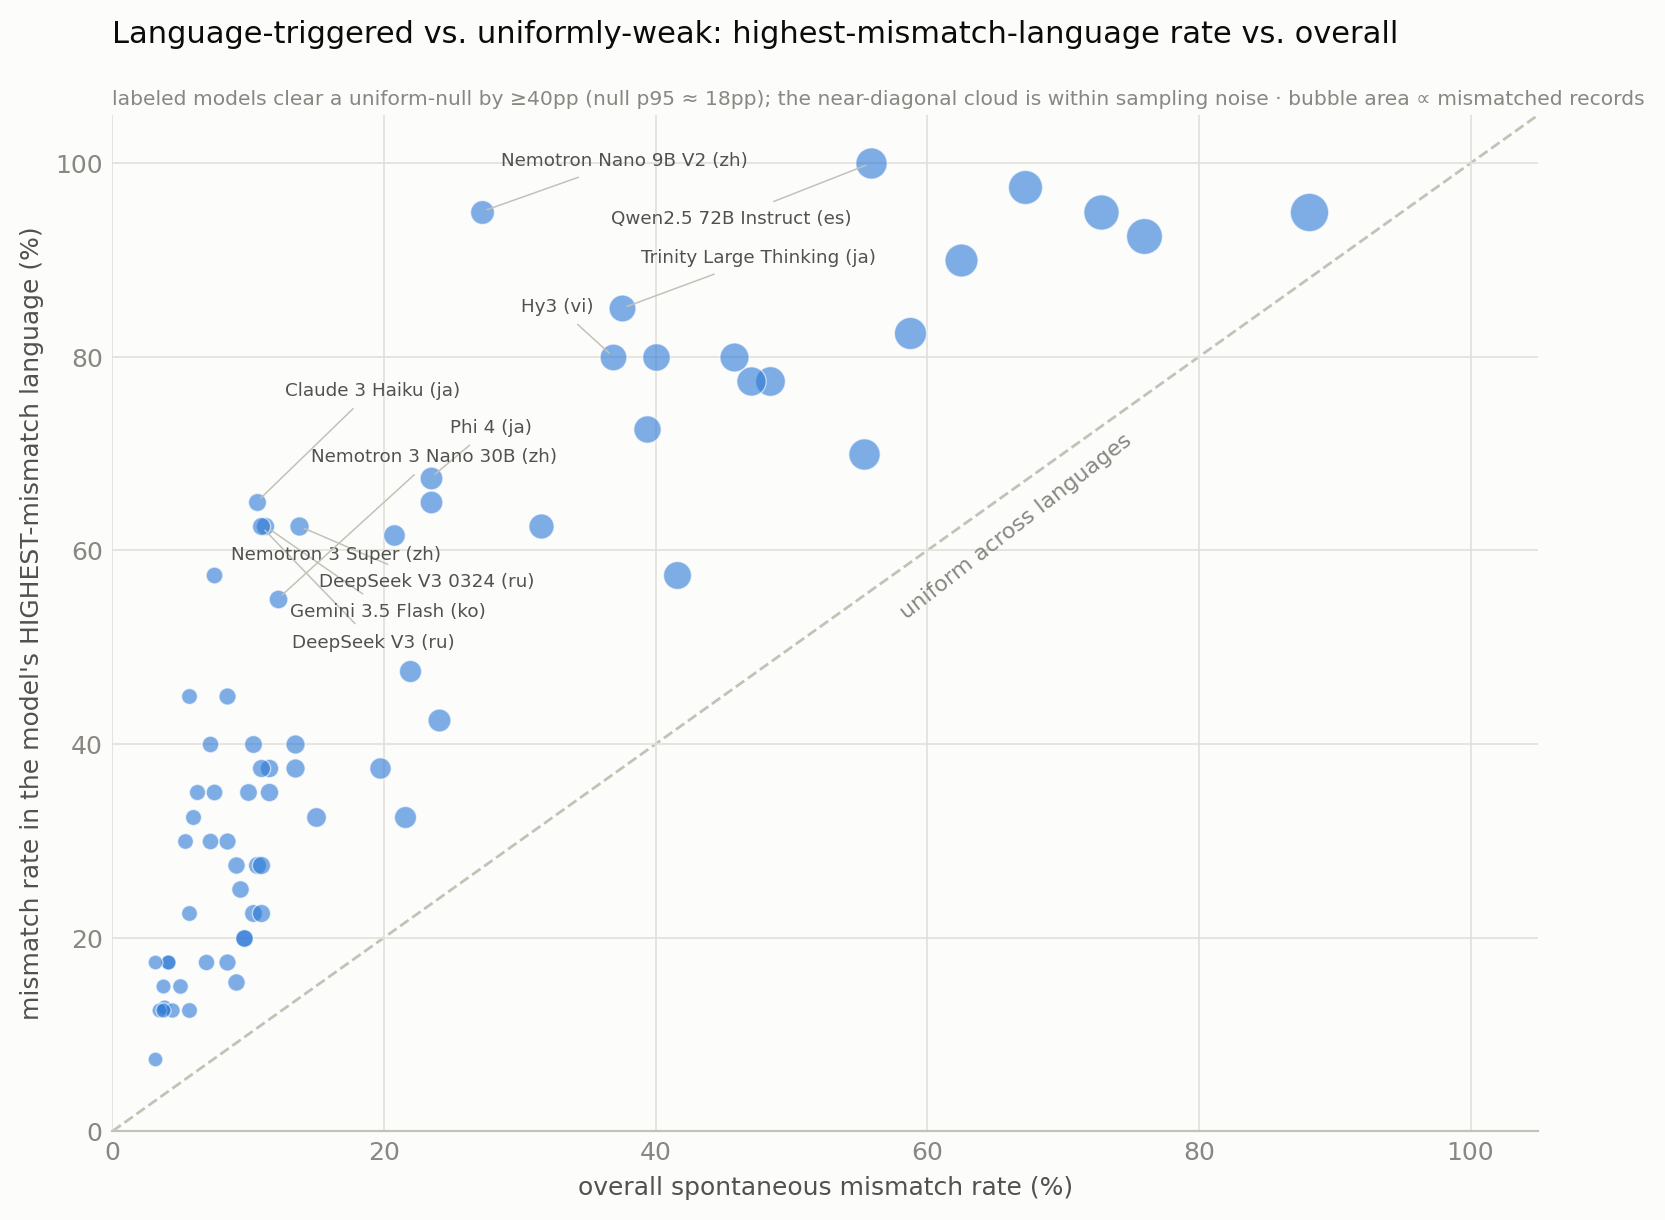
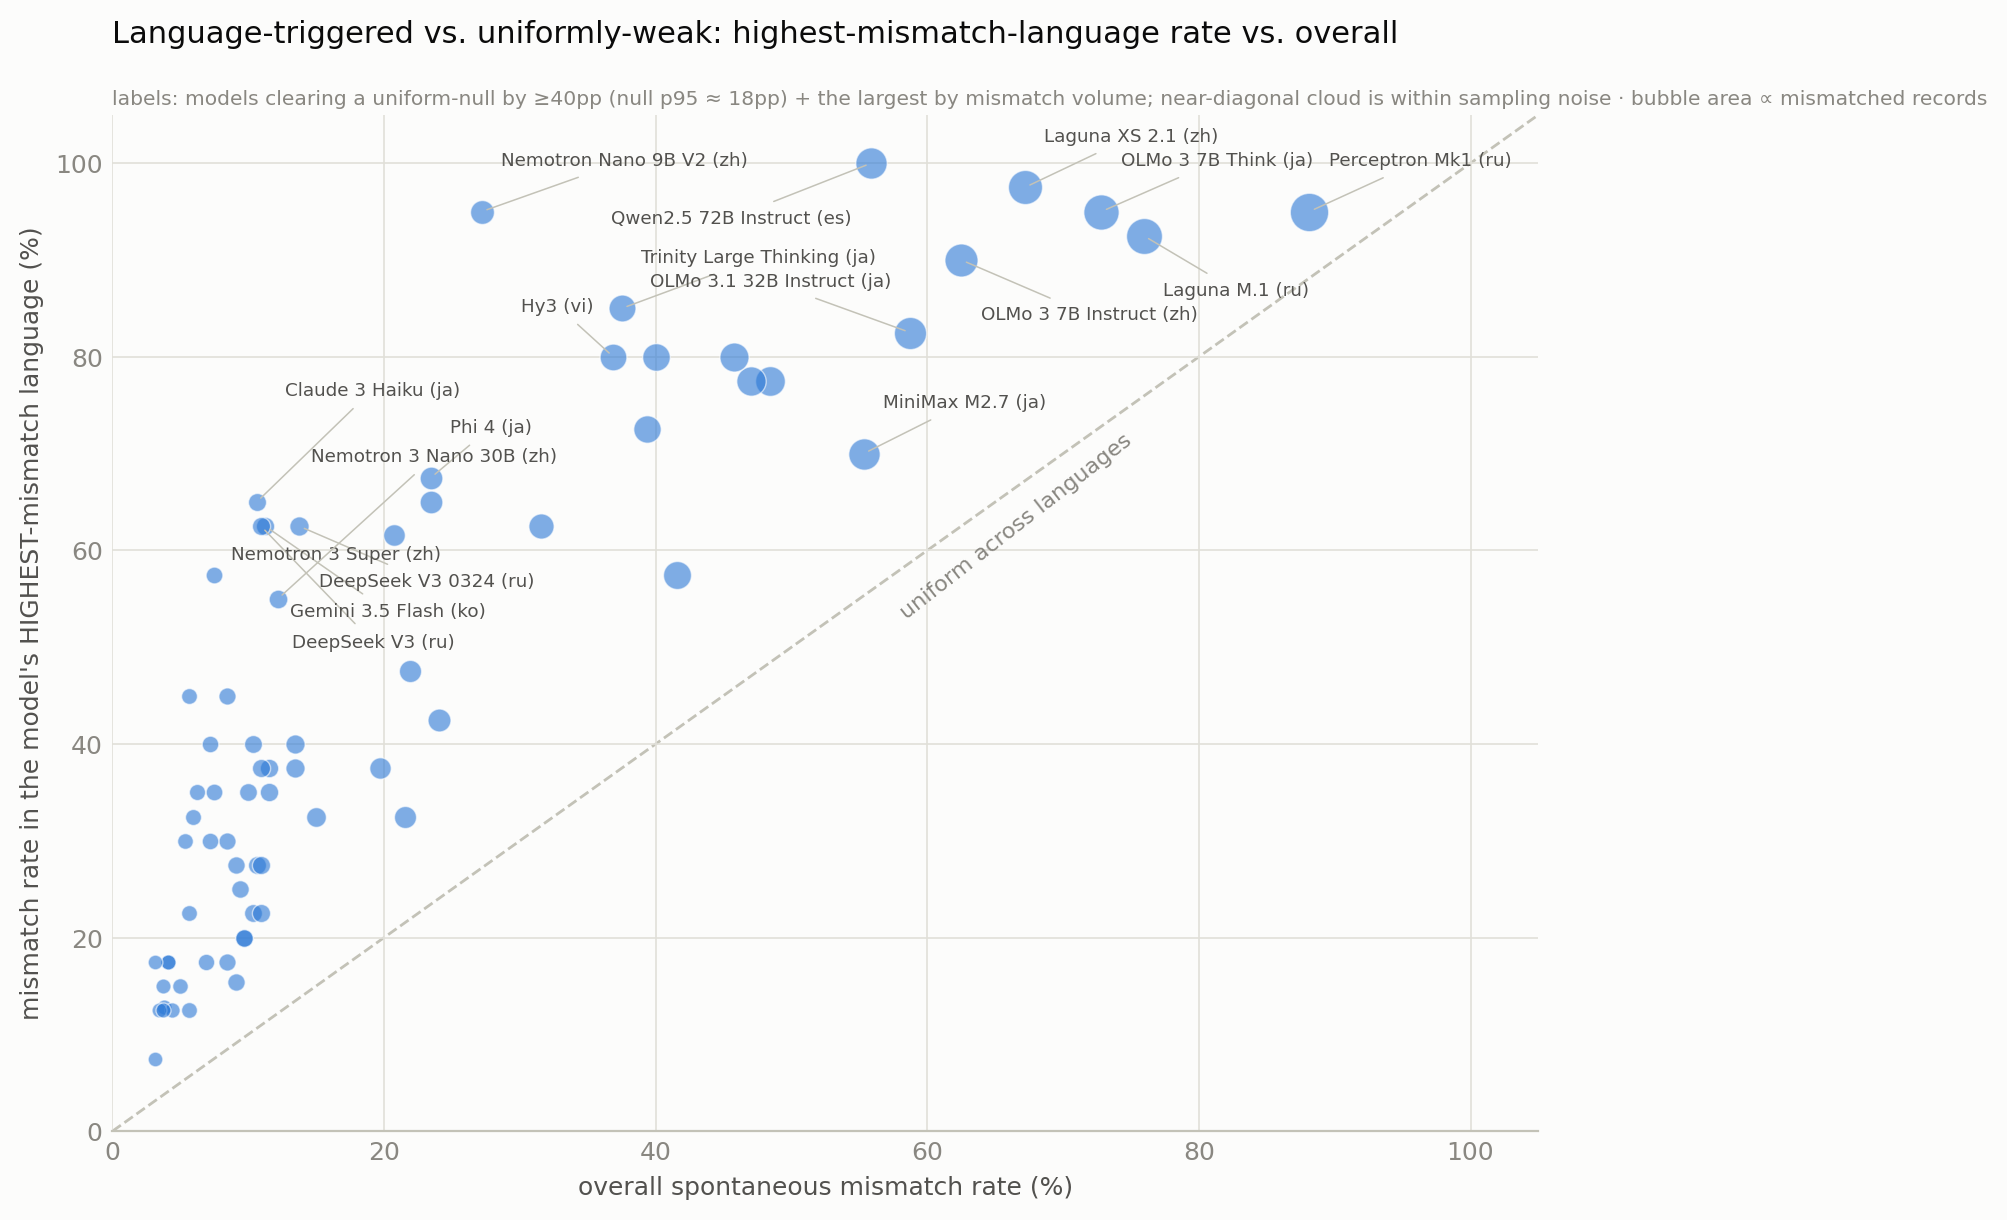
Combined Claude scrub-out (one release axis, two spikes) + label big dots in lang_conditional
Per review: the Qwen scrub-out already mixes size classes on one release axis,
so the Claude story gets the same lab-level view — fig_scrubout_claude.png,
Opus + Sonnet interleaved by registry release date: flat zero through five
releases, Sonnet 4.6 spike, clean 4.7 between, Opus 4.8 spike, decaying to
zero by Opus 5. Split per-line panels remain for the repo.
fig_lang_conditional now also labels the largest-volume bubbles (Perceptron,
Laguna pair, OLMo trio, MiniMax, Qwen2.5-72B), caption updated to match.

Claude-Session: https://claude.ai/code/session_01Anj4JvuNgPGS3kunnJgPkZ

diff --git a/sweep/explain.py b/sweep/explain.py
@@ -203,15 +203,21 @@ def fig_lang_conditional(data):
     ax.set_ylabel("mismatch rate in the model's HIGHEST-mismatch language (%)")
     ax.set_title("Language-triggered vs. uniformly-weak: highest-mismatch-language rate vs. overall",
                  fontsize=11, color=INK, loc="left", pad=26)
-    ax.text(0, 1.006, "labeled models clear a uniform-null by ≥40pp (null p95 ≈ 18pp); the near-diagonal "
-            "cloud is within sampling noise · bubble area ∝ mismatched records",
+    ax.text(0, 1.006, "labels: models clearing a uniform-null by ≥40pp (null p95 ≈ 18pp) + the largest by mismatch volume; "
+            "near-diagonal cloud is within sampling noise · bubble area ∝ mismatched records",
             transform=ax.transAxes, fontsize=7.3, color=MUTED, va="bottom")
     ax.set_xlim(0, lim); ax.set_ylim(0, 105)
     style(ax)
     ax.grid(axis="both", color=GRID, lw=0.6, zorder=0)
+    sel, seen = [], set()
+    for d, mm in (sorted(pts, key=lambda x: -x[1]["excess"])[:11]        # strongest language-gating
+                  + sorted(pts, key=lambda x: -x[0]["dn"])[:8]):         # largest bubbles (mismatch volume)
+        if d["name"] not in seen:
+            seen.add(d["name"])
+            sel.append((d, mm))
     place_labels(fig, ax,
                  [(d["rate"], 100 * mm["max_lang_rate"], f"{d['name']} ({mm['dom_lang']})")
-                  for d, mm in sorted(pts, key=lambda x: -x[1]["excess"])[:11]],
+                  for d, mm in sel],
                  [(d["rate"], 100 * mm["max_lang_rate"], 22 + d["dn"] * 0.6) for d, mm in pts])
     save(fig, "fig_lang_conditional.png")
 

diff --git a/sweep/make_figs.py b/sweep/make_figs.py
@@ -469,6 +469,16 @@ def fig_scrubout(reg, per):
                   CAT[0], "The scrub-out (Claude Sonnet line): name-mismatch rate across releases (cluster-bootstrap 95% CIs)",
                   "fig_scrubout_claude_sonnet.png", "Claude ",
                   subtitle="a 4.6 spike")
+    # Combined frontier-Claude timeline — Opus + Sonnet interleaved by release
+    # date. The per-line splits above are class-pure; this is the lab-level view
+    # (same mixing the Qwen panel already does): one time axis, two spikes.
+    claude_all = sorted((m for m in reg if m.startswith(("anthropic/claude-opus-4", "anthropic/claude-opus-5",
+                                                         "anthropic/claude-sonnet-"))),
+                        key=lambda m: reg[m].get("created") or 0)
+    _scrubout_one(claude_all, CAT[4],
+                  "The scrub-out (Claude frontier, Opus + Sonnet by release date): name-mismatch rate (cluster-bootstrap 95% CIs)",
+                  "fig_scrubout_claude.png", "Claude ",
+                  subtitle="two release-specific spikes — Sonnet 4.6 and Opus 4.8 — clean before, between, and after")
 
 
 def fig_cross(reg, per):
